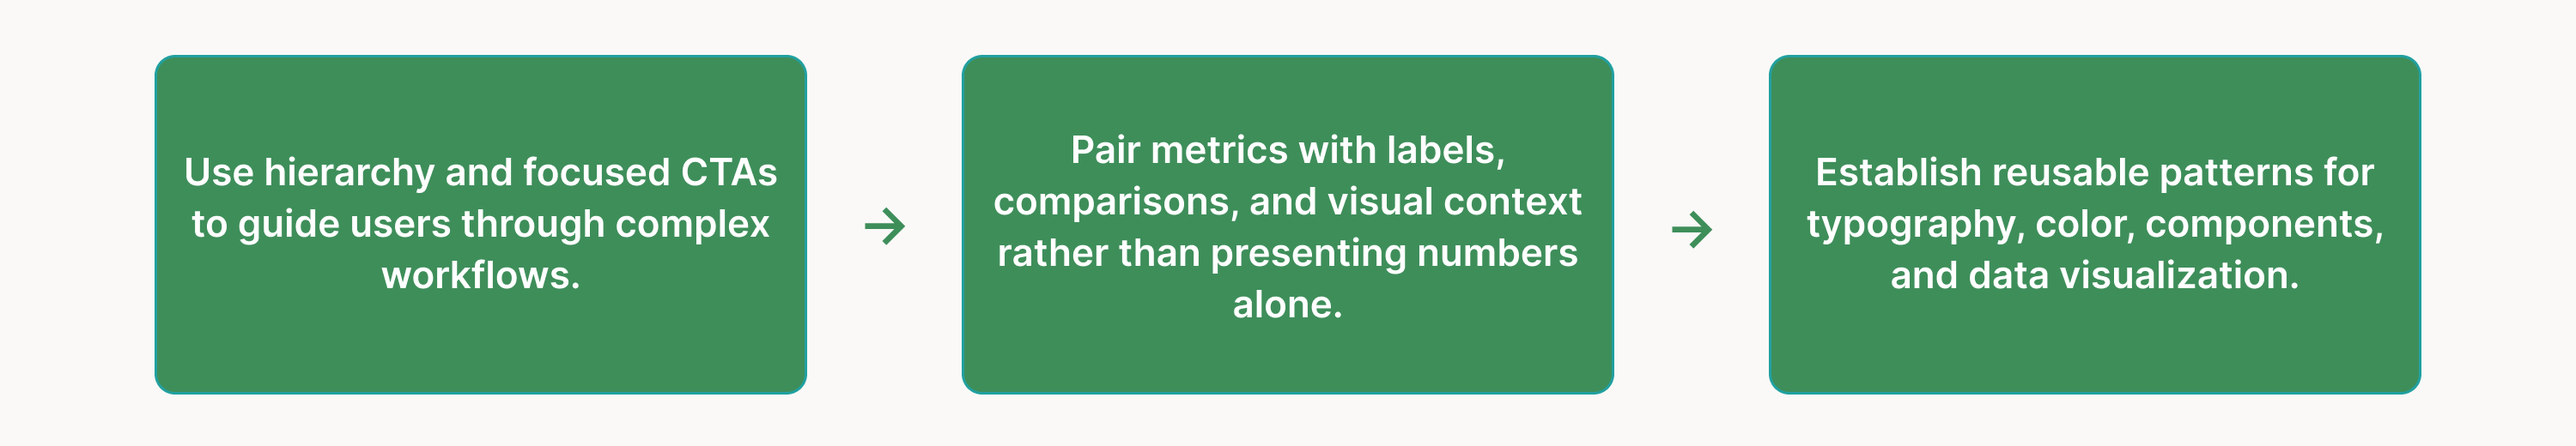
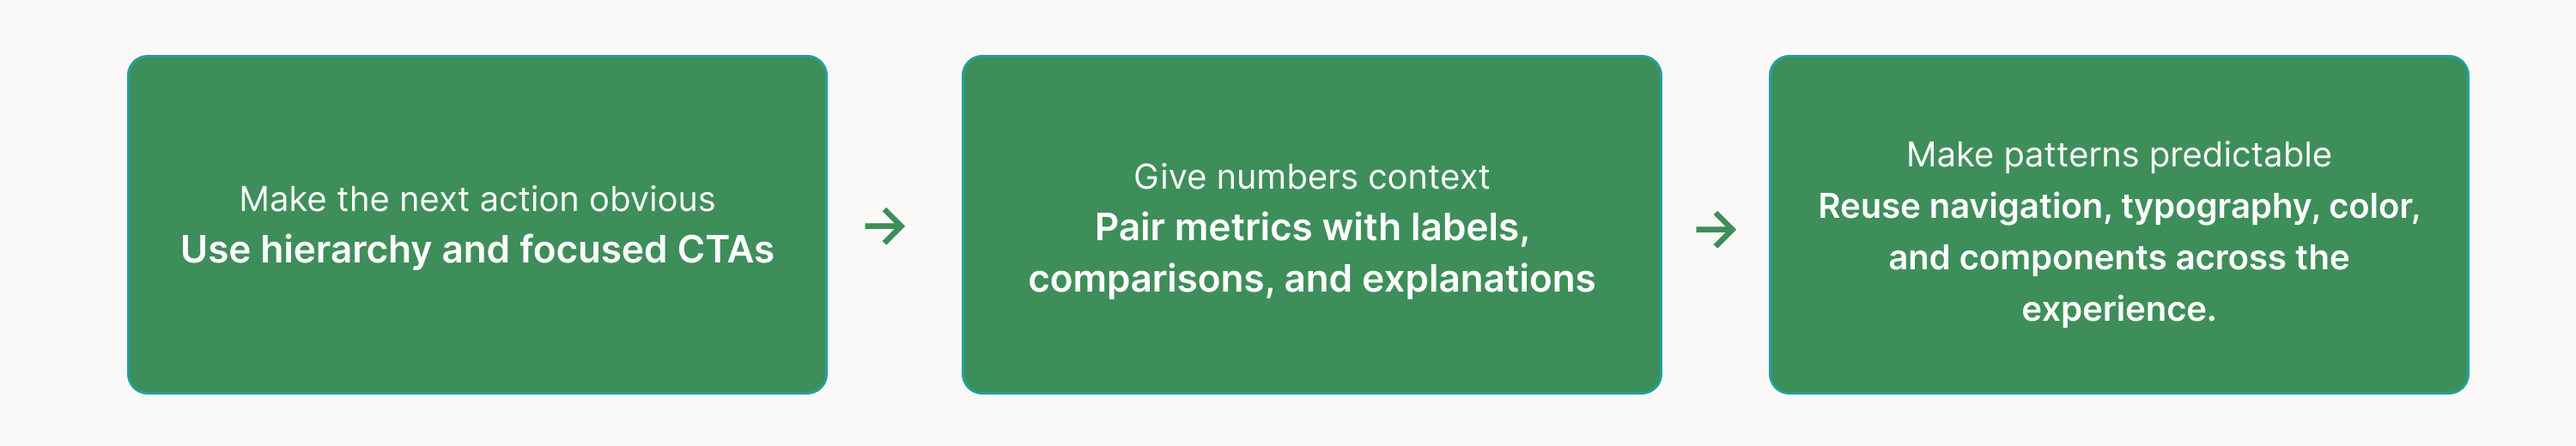
carbon: promote the real headline in Design Direction, re-export the graphic
'We designed around clarity, guidance, and trust' is replaced by the
sentence that was already opening the paragraph underneath it, which says
something. The paragraph drops that sentence so it is not repeated, and
the alt text follows the graphic's new wording.

Changed region(s): [[0.372, 0.1231, 0.961, 0.8923], [0.031, 0.1231, 0.341, 0.8923], [0.775, 0.6769, 0.868, 0.7385]]

diff --git a/carbon-sustain.html b/carbon-sustain.html
@@ -954,11 +954,11 @@
       <!-- Design Direction -->
       <div class="cs-section" id="direction">
         <p class="cs-section-label">Design Direction</p>
-        <h2>We designed around clarity, guidance, and trust.</h2>
-        <p>Our research shifted the goal from simply displaying carbon data to helping users interpret it. I focused the redesign around three principles that could scale across both the marketing site and product.</p>
+        <h2>Research shifted the goal from displaying data to helping people use it.</h2>
+        <p>I focused the redesign around three principles that could scale across both the marketing site and product.</p>
 
         <div style="margin-top: 32px; overflow: visible;">
-          <img src="images/carbon-design-decisions.png" alt="Three design principles connected in sequence — make the next step obvious, turn data into meaning, build consistency across the product" style="width:100%; display:block;">
+          <img src="images/carbon-design-decisions.png" alt="Three design principles connected in sequence — make the next action obvious with hierarchy and focused CTAs; give numbers context by pairing metrics with labels, comparisons and explanations; make patterns predictable by reusing navigation, typography, color and components" style="width:100%; display:block;">
         </div>
       </div>
 
